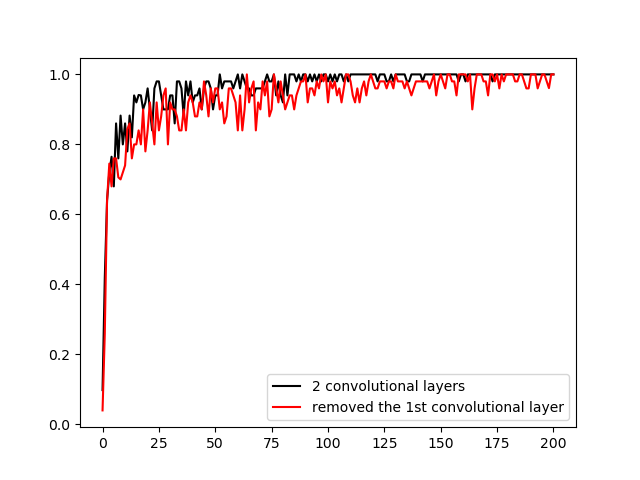
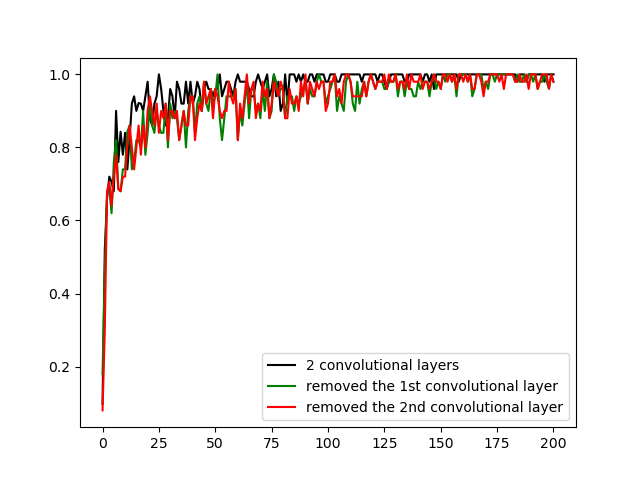
modification of ex 2 and 3, added HelpFunction like the lib.py in sheet 1

diff --git a/exercises_02/ex02/ex02.py b/exercises_02/ex02/ex02.py
@@ -1,56 +1,9 @@
-import numpy as np
 import os
-import tensorflow as tf
-import sys
-import code
 os.environ['TF_CPP_MIN_LOG_LEVEL']='3'
 os.environ['CUDA_VISIBLE_DEVICES']='0'
 import matplotlib.pyplot as plt
+from HelpFunctions import *
 
-
-from load import *
-
-
-def prep(k):
-    (x,y_,tx,ty_) = load_sample_dataset()
-    n = x.shape[0] // k
-    return (np.array_split(normalize(x),n), np.array_split(onehot(y_, 10),n), 0, n,
-            normalize(tx), onehot(ty_, 10))
-
-def normalize(x):
-    x = x - np.mean(x, axis=(1,2))[..., np.newaxis, np.newaxis]
-    x = x / np.linalg.norm(x, axis=(1,2))[..., np.newaxis, np.newaxis]
-    return x
-
-def onehot(y,l):
-    len = y.shape[0]
-    tmp = np.zeros((len,l));
-    tmp[np.arange(len), np.squeeze(y)] = 1
-    return tmp
-
-def next_batch(d):
-    (xs, y_s, i, n, tx, ty_) = d
-    return ((xs[i], y_s[i]), (xs, y_s, (i+1)%n, n, tx, ty_))
-
-def test_data(d):
-    (_, _, _, _, tx, ty_) = d
-    return (tx, ty_)
-
-
-def weight_variable(shape):
-  initial = tf.truncated_normal(shape, stddev=0.1)
-  return tf.Variable(initial)
-
-def bias_variable(shape):
-  initial = tf.constant(0.1, shape=shape)
-  return tf.Variable(initial)
-
-def conv2d(x, W):
-  return tf.nn.conv2d(x, W, strides=[1, 1, 1, 1], padding='SAME')
-
-def max_pool_2x2(x):
-  return tf.nn.max_pool(x, ksize=[1, 2, 2, 1],
-                        strides=[1, 2, 2, 1], padding='SAME')
 
 # (a), (b) & (c)
 
@@ -97,12 +50,14 @@ y_conv = tf.matmul(h_fc1_drop, W_fc2) + b_fc2
 
 
 # training
+
 cross_entropy = tf.reduce_mean(
     tf.nn.softmax_cross_entropy_with_logits(labels=y_, logits=y_conv))
 train_step = tf.train.AdamOptimizer(1e-4).minimize(cross_entropy)
 correct_prediction = tf.equal(tf.argmax(y_conv, 1), tf.argmax(y_, 1))
 accuracy = tf.reduce_mean(tf.cast(correct_prediction, tf.float32))
 train_accuracy = np.zeros([201, 1], np.float32)
+
 with tf.Session() as sess:
     sess.run(tf.global_variables_initializer())
     for i in range(20001):
@@ -122,110 +77,60 @@ with tf.Session() as sess:
     Wfc = sess.run(W_fc1)
     bfc = sess.run(b_fc1)
 
-# (d) remove the second convolutional layer
+# (d) remove the convolutional layers
+
 '''
+trainMethod = tf.train.AdamOptimizer(1e-4)
+
+# remove the 2nd conv layer
 W_fc_only1 = weight_variable([14 * 14 * 32, 1024])
-h_pool2_flat_only1 = tf.reshape(h_pool1, [-1, 14*14*32])
-h_fc1_only1 = tf.nn.relu(tf.matmul(h_pool2_flat_only1, W_fc_only1) + b_fc1)
+h_pool1_flat = tf.reshape(h_pool1, [-1, 14*14*32])
+h_fc1_only1 = tf.nn.relu(tf.matmul(h_pool1_flat, W_fc_only1) + b_fc1)
 h_fc1_drop_only1 = tf.nn.dropout(h_fc1_only1, keep_prob)
 y_conv_only1 = tf.matmul(h_fc1_drop_only1, W_fc2) + b_fc2
-cross_entropy_only1 = tf.reduce_mean(
-    tf.nn.softmax_cross_entropy_with_logits(labels=y_, logits=y_conv_only1))
-train_step_only1 = tf.train.AdamOptimizer(1e-4).minimize(cross_entropy_only1)
-correct_prediction_only1 = tf.equal(tf.argmax(y_conv_only1, 1), tf.argmax(y_, 1))
-accuracy_only1 = tf.reduce_mean(tf.cast(correct_prediction_only1, tf.float32))
-train_accuracy_only1 = np.zeros([201, 1], np.float32)
-with tf.Session() as sess_only1:
-  sess_only1.run(tf.global_variables_initializer())
-  for i in range(20001):
-    # batch = mnist.train.next_batch(50)
-    ((X,Y_), data) = next_batch(data)
-    if i % 100 == 0:
-      train_accuracy_only1[int(i/100)] = accuracy_only1.eval(feed_dict={x: X, y_: Y_, keep_prob: 1.0})
-      print('step %d, training accuracy %g' % (i, train_accuracy_only1[int(i/100)]))
-    train_step_only1.run(feed_dict={x: X, y_: Y_, keep_prob: 0.5})
+train_accuracy_only1 = training(y_, y_conv_only1, trainMethod, data, x, keep_prob, 1)
 
-  (tX,tY_) = test_data(data)
-  print('test accuracy %g' % accuracy_only1.eval(feed_dict={x: tX, y_: tY_, keep_prob: 1.0}))
-
+# remove the 1st conv layer
+# by setting the number of feature maps of the 1st conv layer to 64
+W_conv = weight_variable([5, 5, 1, 64])
+h_conv = tf.nn.relu(conv2d(x_image, W_conv) + b_conv2)
+h_pool = max_pool_2x2(h_conv)
+W_fc = weight_variable([14 * 14 * 64, 1024])
+h_pool_flat = tf.reshape(h_pool, [-1, 14*14*64])
+h_fc = tf.nn.relu(tf.matmul(h_pool_flat, W_fc) + b_fc1)
+h_fc_drop = tf.nn.dropout(h_fc, keep_prob)
+y_conv_only2 = tf.matmul(h_fc_drop, W_fc2) + b_fc2
+train_accuracy_only2 = training(y_, y_conv_only2, trainMethod, data, x, keep_prob, 1)
 
 
 plt.figure()
 plt.plot(train_accuracy, "k", label="2 convolutional layers")
-plt.plot(train_accuracy_only1, "r", label="removed the 1st convolutional layer")
+plt.plot(train_accuracy_only2, "g", label="removed the 1st convolutional layer")
+plt.plot(train_accuracy_only1, "r", label="removed the 2nd convolutional layer")
 plt.legend()
 plt.show()
 '''
 
 # (e) Try different step sizes for Gradient Descent Optimizer
+
 '''
-train_step1 = tf.train.GradientDescentOptimizer(1e-6).minimize(cross_entropy)
-train_step2 = tf.train.GradientDescentOptimizer(5e-3).minimize(cross_entropy)
-train_step3 = tf.train.GradientDescentOptimizer(1e-2).minimize(cross_entropy)
-train_step4 = tf.train.GradientDescentOptimizer(9e-1).minimize(cross_entropy)
-train_accuracy1 = np.zeros([201, 1], np.float32)
-train_accuracy2 = np.zeros([201, 1], np.float32)
-train_accuracy3 = np.zeros([201, 1], np.float32)
-train_accuracy4 = np.zeros([201, 1], np.float32)
+train_step1 = tf.train.GradientDescentOptimizer(1e-6)
+train_step2 = tf.train.GradientDescentOptimizer(5e-3)
+train_step3 = tf.train.GradientDescentOptimizer(1e-2)
+train_step4 = tf.train.GradientDescentOptimizer(9e-1)
 
-with tf.Session() as sess1:
-  sess1.run(tf.global_variables_initializer())
-  for i in range(20001):
-    # batch = mnist.train.next_batch(50)
-    ((X,Y_), data) = next_batch(data)
-    if i % 100 == 0:
-      train_accuracy1[int(i/100)] = accuracy.eval(feed_dict={x: X, y_: Y_, keep_prob: 1.0})
-      print('step %d, training accuracy %g' % (i, train_accuracy1[int(i/100)]))
-    train_step1.run(feed_dict={x: X, y_: Y_, keep_prob: 0.5})
+train_accuracy_1 = training(y_, y_conv, train_step1, data, x, keep_prob, 1)
+train_accuracy_2 = training(y_, y_conv, train_step2, data, x, keep_prob, 1)
+train_accuracy_3 = training(y_, y_conv, train_step3, data, x, keep_prob, 1)
+train_accuracy_4 = training(y_, y_conv, train_step4, data, x, keep_prob, 1)
 
-  (tX,tY_) = test_data(data)
-  print('test accuracy %g' % accuracy.eval(feed_dict={x: tX, y_: tY_, keep_prob: 1.0}))
-
-with tf.Session() as sess2:
-  sess2.run(tf.global_variables_initializer())
-  for i in range(20001):
-    # batch = mnist.train.next_batch(50)
-    ((X,Y_), data) = next_batch(data)
-    if i % 100 == 0:
-      train_accuracy2[int(i/100)] = accuracy.eval(feed_dict={x: X, y_: Y_, keep_prob: 1.0})
-      print('step %d, training accuracy %g' % (i, train_accuracy2[int(i/100)]))
-    train_step2.run(feed_dict={x: X, y_: Y_, keep_prob: 0.5})
-
-  (tX,tY_) = test_data(data)
-  print('test accuracy %g' % accuracy.eval(feed_dict={x: tX, y_: tY_, keep_prob: 1.0}))
-
-with tf.Session() as sess3:
-  sess3.run(tf.global_variables_initializer())
-  for i in range(20001):
-    # batch = mnist.train.next_batch(50)
-    ((X,Y_), data) = next_batch(data)
-    if i % 100 == 0:
-      train_accuracy3[int(i/100)] = accuracy.eval(feed_dict={x: X, y_: Y_, keep_prob: 1.0})
-      print('step %d, training accuracy %g' % (i, train_accuracy3[int(i/100)]))
-    train_step3.run(feed_dict={x: X, y_: Y_, keep_prob: 0.5})
-
-  (tX,tY_) = test_data(data)
-  print('test accuracy %g' % accuracy.eval(feed_dict={x: tX, y_: tY_, keep_prob: 1.0}))
-
-with tf.Session() as sess4:
-    sess4.run(tf.global_variables_initializer())
-    for i in range(20001):
-        # batch = mnist.train.next_batch(50)
-        ((X, Y_), data) = next_batch(data)
-        if i % 100 == 0:
-            train_accuracy4[int(i / 100)] = accuracy.eval(feed_dict={x: X, y_: Y_, keep_prob: 1.0})
-            print('step %d, training accuracy %g' % (i, train_accuracy4[int(i / 100)]))
-        train_step4.run(feed_dict={x: X, y_: Y_, keep_prob: 0.5})
-
-    (tX, tY_) = test_data(data)
-    print('test accuracy %g' % accuracy.eval(feed_dict={x: tX, y_: tY_, keep_prob: 1.0}))
 
 plt.figure()
 plt.plot(train_accuracy, "k", label="AdamOpt, step-size = 1e-4")
-plt.plot(train_accuracy1, "r", label="step-size = 1e-6")
-plt.plot(train_accuracy2, "g", label="step-size = 5e-3")
-plt.plot(train_accuracy3, "b", label="step-size = 1e-2")
-plt.plot(train_accuracy4, "m", label="step-size = 9e-1")
+plt.plot(train_accuracy_1, "r", label="step-size = 1e-6")
+plt.plot(train_accuracy_2, "g", label="step-size = 5e-3")
+plt.plot(train_accuracy_3, "b", label="step-size = 1e-2")
+plt.plot(train_accuracy_4, "m", label="step-size = 9e-1")
 plt.legend()
 plt.show()
 '''

diff --git a/exercises_02/ex02/ex03.py b/exercises_02/ex02/ex03.py
@@ -1,8 +1,4 @@
 from ex02 import *
-import numpy as np
-import tensorflow as tf
-from tensorflow.examples.tutorials.mnist import input_data
-mnist = input_data.read_data_sets('MNIST_data', one_hot=True)
 
 
 x = tf.placeholder(tf.float32, shape=[None, 784])
@@ -47,33 +43,16 @@ y_conv_jp = tf.matmul(h_fc1_drop_jp, W_fc2_jp) + b_fc2_jp
 
 
 # training
-cross_entropy = tf.reduce_mean(
-    tf.nn.softmax_cross_entropy_with_logits(labels=y_, logits=y_conv_jp))
-train_step_jp = tf.train.AdamOptimizer(1e-4).minimize(cross_entropy)
-correct_prediction_jp = tf.equal(tf.argmax(y_conv_jp, 1), tf.argmax(y_, 1))
-accuracy_jp = tf.reduce_mean(tf.cast(correct_prediction_jp, tf.float32))
-train_accuracy = np.zeros([201, 1], np.float32)
-with tf.Session() as sess_jp:
-    sess_jp.run(tf.global_variables_initializer())
-    for i in range(20001):
-        batch = mnist.train.next_batch(50)
-        if i % 100 == 0:
-            train_accuracy[int(i/100)] = accuracy_jp.eval(feed_dict={
-                x: batch[0], y_: batch[1], keep_prob: 1.0})
-            print('step %d, training accuracy %g' % (i, train_accuracy[int(i/100)]))
-        train_step_jp.run(feed_dict={x: batch[0], y_: batch[1], keep_prob: 0.5})
-
-    print('test accuracy %g' % accuracy_jp.eval(feed_dict={
-        x: mnist.test.images, y_: mnist.test.labels, keep_prob: 1.0}))
-
+trainMethod = tf.train.AdamOptimizer(1e-4)
+train_accuracy = training(y_, y_conv_jp, trainMethod, data, x, keep_prob, 0)
 
 
 # (2) Comparison
 
 # test accuracies:
-# with trained weights and biases for jp : 97.27%
-# with all weights and biases trained:     99.24%
-# with logits regression:                  91.87%
+# with trained weights and biases for jp :  96.95%
+# with all weights and biases trained:      99.24%
+# with logits regression:                   91.87%
 
 
 '''
@@ -110,25 +89,7 @@ b_fc2 = bias_variable([10])
 y_conv = tf.matmul(h_fc1_drop, W_fc2) + b_fc2
 
 # training
-cross_entropy = tf.reduce_mean(
-    tf.nn.softmax_cross_entropy_with_logits(labels=y_, logits=y_conv))
-train_step = tf.train.AdamOptimizer(1e-4).minimize(cross_entropy)
-correct_prediction = tf.equal(tf.argmax(y_conv, 1), tf.argmax(y_, 1))
-accuracy = tf.reduce_mean(tf.cast(correct_prediction, tf.float32))
-train_accuracy_digits = np.zeros([201, 1], np.float32)
-with tf.Session() as sess:
-  sess.run(tf.global_variables_initializer())
-  for i in range(20001):
-    batch = mnist.train.next_batch(50)
-    if i % 100 == 0:
-      train_accuracy_digits[int(i/100)] = accuracy.eval(feed_dict={
-          x: batch[0], y_: batch[1], keep_prob: 1.0})
-      print('step %d, training accuracy %g' % (i, train_accuracy_digits[int(i/100)]))
-    train_step.run(feed_dict={x: batch[0], y_: batch[1], keep_prob: 0.5})
-
-  print('test accuracy %g' % accuracy.eval(feed_dict={
-      x: mnist.test.images, y_: mnist.test.labels, keep_prob: 1.0}))
-
+train_accuracy_digits = training(y_, y_conv, trainMethod, data, x, keep_prob, 0)
 
 
 # train with logistic regression
@@ -164,5 +125,5 @@ plt.plot(train_accuracy_digits, "r", label="all weights and biases trained")
 plt.plot(train_accuracy_lr, "g", label="with logits regression")
 plt.legend()
 plt.show()
-'''
 
+'''

diff --git a/exercises_02/ex02/HelpFunctions.py b/exercises_02/ex02/HelpFunctions.py
@@ -1,0 +1,78 @@
+from load import *
+import numpy as np
+import tensorflow as tf
+from tensorflow.examples.tutorials.mnist import input_data
+mnist = input_data.read_data_sets('MNIST_data', one_hot=True)
+
+def prep(k):
+    (x,y_,tx,ty_) = load_sample_dataset()
+    n = x.shape[0] // k
+    return (np.array_split(normalize(x),n), np.array_split(onehot(y_, 10),n), 0, n,
+            normalize(tx), onehot(ty_, 10))
+
+def normalize(x):
+    x = x - np.mean(x, axis=(1,2))[..., np.newaxis, np.newaxis]
+    x = x / np.linalg.norm(x, axis=(1,2))[..., np.newaxis, np.newaxis]
+    return x
+
+def onehot(y,l):
+    len = y.shape[0]
+    tmp = np.zeros((len,l));
+    tmp[np.arange(len), np.squeeze(y)] = 1
+    return tmp
+
+def next_batch(d):
+    (xs, y_s, i, n, tx, ty_) = d
+    return ((xs[i], y_s[i]), (xs, y_s, (i+1)%n, n, tx, ty_))
+
+def test_data(d):
+    (_, _, _, _, tx, ty_) = d
+    return (tx, ty_)
+
+
+def weight_variable(shape):
+  initial = tf.truncated_normal(shape, stddev=0.1)
+  return tf.Variable(initial)
+
+def bias_variable(shape):
+  initial = tf.constant(0.1, shape=shape)
+  return tf.Variable(initial)
+
+def conv2d(x, W):
+  return tf.nn.conv2d(x, W, strides=[1, 1, 1, 1], padding='SAME')
+
+def max_pool_2x2(x):
+  return tf.nn.max_pool(x, ksize=[1, 2, 2, 1],
+                        strides=[1, 2, 2, 1], padding='SAME')
+
+def training(y_, y_conv, trainMethod, data, x, keep_prob, jp):
+    cross_entropy = tf.reduce_mean(
+        tf.nn.softmax_cross_entropy_with_logits(labels=y_, logits=y_conv))
+    train_step = trainMethod.minimize(cross_entropy)
+    correct_prediction = tf.equal(tf.argmax(y_conv, 1), tf.argmax(y_, 1))
+    accuracy = tf.reduce_mean(tf.cast(correct_prediction, tf.float32))
+    train_accuracy = np.zeros([201, 1], np.float32)
+    with tf.Session() as sess:
+        sess.run(tf.global_variables_initializer())
+        for i in range(20001):
+            if jp == 1:
+                ((X, Y_), data) = next_batch(data)
+            else:
+                batch = mnist.train.next_batch(50)
+                X = batch[0]
+                Y_ = batch[1]
+
+            if i % 100 == 0:
+                train_accuracy[int(i / 100)] = accuracy.eval(feed_dict={x: X, y_: Y_, keep_prob: 1.0})
+                print('step %d, training accuracy %g' % (i, train_accuracy[int(i / 100)]))
+            train_step.run(feed_dict={x: X, y_: Y_, keep_prob: 0.5})
+
+        if jp == 1:
+            (tX, tY_) = test_data(data)
+        else:
+            tX = mnist.test.images
+            tY_ = mnist.test.labels
+
+        print('test accuracy %g' % accuracy.eval(feed_dict={x: tX, y_: tY_, keep_prob: 1.0}))
+
+    return train_accuracy
